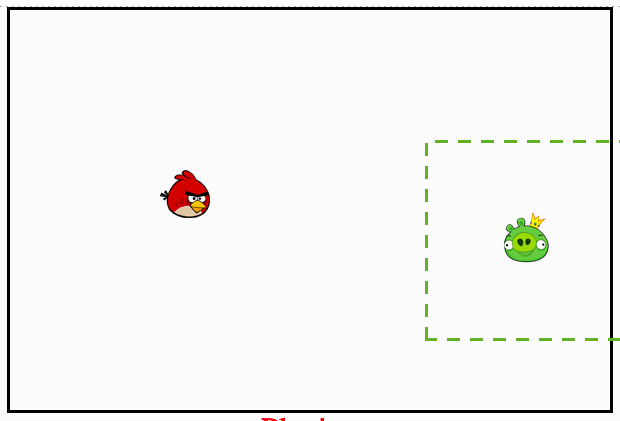
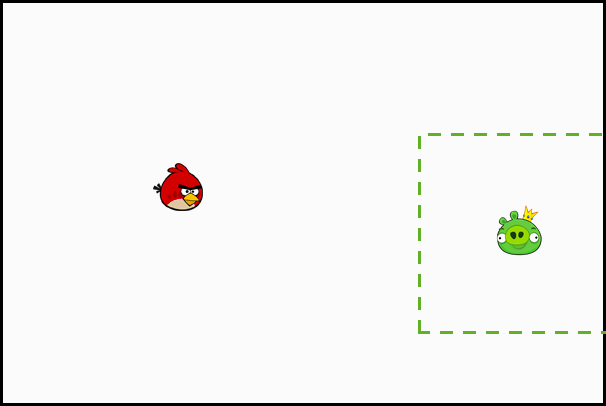
avances en actividades última sección

diff --git a/Ingreso2024/class5.md b/Ingreso2024/class5.md
@@ -6,7 +6,7 @@ pequeño videojuego.
 El videojuego a desarrollar esta inspirado en la narrativa del famoso [Angry Birds](https://es.wikipedia.org/wiki/Angry_Birds).
 
 
-## Nuestro videojuego versión 0.1
+## Nuestro videojuego - *Versión 0.1*
 
 En esta variante del juego el Rey Cerdo intenta atrapar (aplastando) al Angry Bird, para esto, cada un cierto tiempo determina una posición a la cual trasladarse (de manera aleatoria) y, si el Angry Bird se encuentra justo en un cierto rango de distancia de la posición elegida por el cerdo, entonces el angry bird será atrapado. El objetivo por el momento es tratar de escapar al cerdo. El jugador podrá mover al Angry Bird por toda el area de juego para tratar de escapar, utilizando las teclas de dirección (&larr; , &uarr; , &darr; , &rarr;).
 
@@ -20,7 +20,7 @@ de la pantalla). En concreto deberas programar las funciones ``moveForward()``, 
 <!-- ¿ meter la idea de requisitos ?-->
 
 > [!NOTE|label:NOTA]
-> Las posiciones de los personajes en el area de juego están representadas por valores almacenados en cuatro variables, dos para las coordenadas *x* e *y* del angry bird (``birdX`` y ``birdY``), y otras dos para las del cerdo (``pigX`` y ``pigY``). Cualquier cambio en el valor de esas variables se verá reflejado como un cambio de posición del personaje en la pantalla de juego.
+> Las posiciones de los personajes en el area de juego están representadas por valores almacenados en cuatro variables, dos para las coordenadas *x* e *y* del angry bird (``birdX`` y ``birdY``), y otras dos para las del cerdo (``pigX`` y ``pigY``). Cualquier cambio en el valor de esas variables se verá reflejado como un cambio de posición del personaje en la pantalla de juego. El área de juego tiene una dimensión de 600 puntos horizontal por 400 puntos vertical.
 
 ###  Refrescando un poco: ¿Cómo se escriben las funciones?
 
@@ -38,7 +38,7 @@ Ya has utilizado funciones desde el comienzo invocándolas y también has escrit
 
 >[!NOTE|label:NOTA] Los parámetros definidos entre los paréntesis pueden ser utilizados como variables visibles dentro del cuerpo de la función, que traeran los valores con los que se haya invocado a la función a la hora de usarla.
 
-## Iteración 2
+## Iteración 2 - *Detectando al Angry Bird*
 
 Actualmente el cerdo realiza movimientos aleatorios cada un segundo, decide un lugar (una posición **(x,y)** del área de juego) al azar al cual saltar y se desplaza hasta allí. En ningún momento el cerdo tiene en cuenta qué tan cerca ha saltado del angry bird, no existe la noción de visibilidad, detección o cercanía. Tan solo puede distingir si lo está tocando o no. Quisiéramos incorporarle al cerdo un grado de inteligencia mayor, es decir, que bajo alguna medida de distancia predefinida pueda saber si ha saltado cerca o no, y si lo está, entonces que se comporte como si lo hubiera visto y comience a saltar en la zona.
 
@@ -46,227 +46,54 @@ Actualmente el cerdo realiza movimientos aleatorios cada un segundo, decide un l
 
  *"Vamos por partes"* - JTR.
 
-> [!TIP|label:Análisis del problema]
-> Como resolver la detección: Si el área demarcada por el cuadrado verde en torno al cerdo fuese el área de visibilidad que el mismo tiene, entonces, de la siguiente imagen se desprende que el cerdo estaría viendo o detectando al angry bird. Podemos determinar el área a partir de conocer la posición del cerdo (sus variables de coordenadas *x* e *y*) y la distancia de detección, que podríamos mantener también en una variable. Luego podríamos computar si la posición del angry bird está dentro o fuera del area y así determinar si es visto o detectado, o no.
+> [!TIP|label:Análisis del problema - primera parte]
+> ¿Cómo resolver la detección?: Si la zona demarcada por el cuadrado verde en torno al cerdo fuese el área de visibilidad que el mismo tiene, entonces, de la siguiente imagen se desprende que el cerdo estaría viendo o detectando al angry bird. Aparecen aquí dos *subproblemas* para poder calcular esto, por un lado necesitamos obtener los valores que determinan el cuadrado (qué es de posición dinamica) y por el otro calcular si la posición del angry bird está dentro o fuera del mismo.
 
-![sentencia if .center](img/visibleArea.png ':size=40%')
+![img analisis 1](img/visibleArea.png ':size=40%') ![img analisis 1b](img/visibleArea2.png ':size=40%')
 
-Ya hemos resuelto con anterioridad como determinar si un punto pertenece al área de un cuadrado en el plano cartesiano. En aquella oportunidad ya contábamos con información sobre la posición y dimensiones del cuadrado, aquí deberemos determinar los valores de posición en función de la posición del cerdo y la distancia de visibilidad.
+Con algunas cuentas sencillas podemos determinar dinamicamente los valores del cuadrado, a partir de conocer la posición del cerdo (sus variables de coordenadas *x* e *y*) y la distancia de detección visual (indicada como <span style="color: red;">VD</span> en el siguiente grafico). Una vez obtenidos los valores que describen la locación del cuadrado en el plano cartesiano, ya sabemos de ejercicios anteriores como calcular si un punto (en este caso ![img angry bird](img/birdAvatar.png ':size=2%')) está o no dentro del mismo. 
 
-![sentencia if .center](img/visibleAreaValues.png ':size=40%')
+![img analisis 2 .center](img/visibleAreaValues.png ':size=40%')
+
+> [!NOTE|label:NOTA] En realidad conocemos el punto medio del cuadrado (en este caso ![img pig](img/pigAvatar.png ':size=2%')) y, si observamos la forma en la que está implementada la decición de la captura, podemos ver que no es necesario el calculo explicito del cuadrado...
+
+
+> [!TIP|label:Análisis del problema - segunda parte]
+> ¿Cómo resolvemos las zonas de salto variable?: El cálculo aleatorio para la nueva posición del cerdo se lleva a cabo al comienzo de la función ``movePig()`` y los valores resultantes estan acotados por las variables límites. Actualizando dinamicamente estas variables lograremos ir acotando las zonas de salto en cada iteración. Aparecen aquí dos *subproblemas*, ¿dónde las actualizo? y ¿cómo calcular su valor?
+
+```
+function movePig() {
+    
+    // Calcular la nueva posición a la que moverá el cerdo
+    pigX = randomNumber(limiteInferiorX,limiteSuperiorX);
+    pigY = randomNumber(limiteInferiorY,limiteSuperiorY);
+
+    ...
+
+}
+    
+```
+
+
 
   <!-- angry bird (``birdX`` y ``birdY``)
   cerdo (``pigX`` y ``pigY``).
 -->
 ## Iteración 3
 
- TBC
+ TBD
 
-***Actividad***: Vamos a ...
+***Actividad***: Agreguemos objetivos y ganemos vidas...
 
-## Version 0.9
 
-TBC
 
-***Actividad***: Vamos a ...
 
-<!--
 
-## Algunos conceptos importantes para escribir un programa que resuelva este problema:
 
+full :https://editor.p5js.org/compuUNRCIngreso/full/NbtC4_QIE
+<iframe src="https://editor.p5js.org/compuUNRCIngreso/full/NbtC4_QIE" width="800" height="600"></iframe>
 
-Si recordamos  al ejemplo de la primera clase [multiplicar dos números](#nuestro-programa-que-multiplica-dos-números-en-javaScript), hemos utilizado variables para recordar valores,
+edit :https://editor.p5js.org/compuUNRCIngreso/sketches/NbtC4_QIE
+<iframe src="https://editor.p5js.org/compuUNRCIngreso/sketches/NbtC4_QIE" width="800" height="600"> ...</iframe>
 
-## ¿Qué son las variables? 
- 
-* Una variabla es la combinación de las siguientes cosas: 
 
-* Un nombre  (o identificador) a elección 
-
-* Una dirección en la memoria de la computadora 
-* Un valor almacenado en esa dirección de la memoria que puede cambiar durante la ejecución del programa
-
-* Un tipo, que especifica cuanto espacio ocupa ese valor en la memoria, y cómo interpretar este valor 
-
-> [!WARNING|label: IMPORTANTE]
->  Para usar una variable, necesitas en primer lugar declarar la variable 
-
-* * * * * * * * * * * * * * * * * * * * * * * * * * * * * * * * * * * * * * * * * * * * * * * * * 
-
-
-## ¿Cómo cambiamos el valor almacenado en una variable?
-
-***Asignación***: Una asignación cambia el valor de una variable. Una asignación es una sentencia de la forma:
-   ```
-    nombre_variable = expresion;
-   ```
-
-Donde  ``nombre_variable`` es el nombre elegido para la variable. La asignación cambia el valor de la variable  ``nombre_variable`` por el valor de  ``expresion``
-
-<span style="color:red">  <font size = 6 >  acá abajo la idea es utilizar este espacio para ejemplos on the fly
-cambiar el valor de las variables, imprimir , etc. Hay una función que retorna un valor
-</font></span>
-
-Ejemplo: 
-
-<iframe src="https://editor.p5js.org/compuUNRCIngreso/full/l56tAFfey" width="800" height="600"></iframe>
-
-> [!TIP|label: NOTA]
-> Link para abrir este ejermplo en otra ventana del navegador [variables](https://editor.p5js.org/compuUNRCIngreso/full/l56tAFfey)
-
-* * * * * * * * * * * * * * * * * * * * * * * * * * * * * * * * * * * * * * * * * * * * * * * * * 
-
-## Sentencia Condicional ``if``
-
-``` 
-    ...
-    if (CONDICION) {
-        [BLOQUE DE SENTENCIAS] 
-    }
-
-    [BLOQUE DE SENTENCIAS SIGUIENTES]
-    ...
-```
-
-![sentencia if .center](img/if.png ':size=40%')
-
-
-
-* * * * * * * * * * * * * * * * * * * * * * * * * * * * * * * * * * * * * * * * * * * * * * * * * 
-
- 
-## Sentencia Condicional ``if-else`` 
-
-
-```
-    ...
-    if (CONDICION) {
-        [BLOQUE DE SENTENCIAS 1] 
-    }else{
-        [BLOQUE DE SENTENCIAS 2] 
-    }
-
-    [BLOQUE DE SENTENCIAS SIGUIENTES]
-    ...
-
-```
-![sentencia if .center](img/if-else.png ':size=60%')
-
-
-
-* * * * * * * * * * * * * * * * * * * * * * * * * * * * * * * * * * * * * * * * * * * * * * * * * 
-
-##   Operadores de comparación
- 
-Los operadores de comparación nos permiten comparar el valor de dos expresiones:
-
-```
-    EXPR > EXPR
-    EXPR >= EXPR
-    EXPR < EXPR
-    EXPR <= EXPR
-    EXPR == EXPR
-    EXPR != EXPR
-```
-
-Estas expresiones booleanas, o condiciones, pueden ser usadas en el contexto de las sentencias condicionales.
-
-* * * * * * * * * * * * * * * * * * * * * * * * * * * * * * * * * * * * * * * * * * * * * * * * *  
-
-##  Ahora si volvamos a tirar el dado...
-
-> [!TIP|label:AYUDA]
-> Algunas funciones de utilidad [fill()](https://p5js.org/es/reference/#/p5/fill) y [circle()](https://p5js.org/es/reference/#/p5/circle) para resolver el problema.
-
- <span style="color:red"> <font size = 6 >acá se usan  funciones con parametros </font> </span>
- 
-
-<iframe src="https://editor.p5js.org/compuUNRCIngreso/full/Jssw9sFDA" width="800" height="600"></iframe>
-
-> [!TIP|label:NOTA]
-> Link para abrir este ejercicio en otra ventana del navegador [tirar los dados](https://editor.p5js.org/compuUNRCIngreso/full/Jssw9sFDA) 
-
-* * * * * * * * * * * * * * * * * * * * * * * * * * * * * * * * * * * * * * * * * * * * * * * * * 
-
-
-## Actividad 2: Dónde esta el punto (1)?
- 
-
-El Lienzo está dividido en dos secciones por una línea recta horizontal.  Se  proveen variables ``mouseX`` y  ``mouseY`` que almacenan las coordenadas ``(x, y)`` del punto sobre el Lienzo en donde se hace ‘click’. Escribir un programa que decida si se hizo un click por encima o por debajo de la línea. 
-
-<iframe src="https://editor.p5js.org/compuUNRCIngreso/full/3eExV-33b" width="800" height="600"></iframe>
-
-> [!TIP|label:NOTA]
-> Link para abrir este ejercicio en otra ventana del navegador [Donde esta el punto (1)?](https://editor.p5js.org/compuUNRCIngreso/full/3eExV-33b)
-
-* * * * * * * * * * * * * * * * * * * * * * * * * * * * * * * * * * * * * * * * * * * * * * * * * 
-
-
-## Actividad 3: Dónde esta el punto (2)? 
-
-En este caso, encontrarás el Lienzo divido en cuatro cuadrantes. Nuevamente se proveen las variables que almacenan las coordenadas ``(x, y)`` del punto sobre el Lienzo donde se hizo 'click' (``mouseX`` y  ``mouseY``). 
-
-Escribir un programa que decida  en qué cuadrante se ha hecho click (arriba-derecha, arriba-izquierda, abajo-derecha o abajo- izquierda). 
-
-
-<iframe src="https://editor.p5js.org/compuUNRCIngreso/full/OnSK_3K-7" width="800" height="600"></iframe>
-
-
-> [!TIP|label:NOTA]
-> Link para abrir este ejercicio en otra ventana del navegador [Donde esta el punto (2)?](https://editor.p5js.org/compuUNRCIngreso/full/OnSK_3K-7)
- 
-* * * * * * * * * * * * * * * * * * * * * * * * * * * * * * * * * * * * * * * * * * * * * * * * * 
-
-##  Actividad 4: Le dí a la figura?
- 
-Cuando ejecutas este programa (botón ``play`` en la esquina superior izquierda), se dibuja un círculo de tamaño aleatorio en el lienzo, las partes (centro y diametro) de este círculo   quedarán almacenadas en las variables: ``xCentro``, ``yCentro`` y ``diametro``. Además, contamos con las variables ``mouseX`` y ``mouseY``,  utilizadas anteriormente,  que almacenan las coordenadas de un 'click'. Esta actividad consiste en escribir un programa que  decida si se hizo 'click' dentro del círculo o fuera de él.
-
-
-<iframe src="https://editor.p5js.org/compuUNRCIngreso/full/N4XRJQjAK" width="800" height="600"></iframe>
-
-> [!TIP|label:NOTA]
-> Link para abrir este ejercicio en otra ventana del navegador [Le dí a la figura?](https://editor.p5js.org/compuUNRCIngreso/full/N4XRJQjAK) 
-
-* * * * * * * * * * * * * * * * * * * * * * * * * * * * * * * * * * * * * * * * * * * * * * * * * 
-
-
-##  Actividad 5: Le dí a la figura (2)?
- 
-Cuando ejecutas este programa (botón ``play`` en la esquina superior izquierda), se dibuja un cuadrado de tamaño aleatorio en el lienzo, el tamaño de los lados de este cuadrado   quedará almacenada en la variable: ``lado``, y las coordenadas `(x,y)` de la esquina superior izquierda del cuadrado en las variables `xCoord` e `yCoord` respectivamente. Además, contamos con las variables ``mouseX`` y ``mouseY``,  que almacenan las coordenadas de un 'click'. Esta actividad consiste en escribir un programa que  decida si se hizo 'click' dentro del cuadrado o fuera de él.
-
-
-<iframe src="https://editor.p5js.org/compuUNRCIngreso/full/obPixCPm6"  width="800" height="600">></iframe>
-
-
-> [!TIP|label:NOTA]
-> Link para abrir este ejercicio en otra ventana del navegador [Le dí a la figura?](https://editor.p5js.org/compuUNRCIngreso/sketches/obPixCPm6)
-
-
-##  Actividad 6: Que no se escape Angry Bird!
-
-
-
-Cuando ejecutas este programa (botón ``play`` en la esquina superior izquierda), tendrás a **Angry Bird** en su posición inicial, has click en el lienzo para comenzar.
-
-Cada vez que presionas la tecla `->` **Angry Bird** se mueve unos pasos hacia adelante!. Analicemos el código provisto con detalle. Podrás notar que **Angry Bird** desaparece cuando sobrepasa los límites del lienzo. La tarea consiste en modificar el código provisto para que **Angry Bird** vuelva a comenzar desde su posición inicial cuando este sobrepasa los límites del lienzo. 
-
-
-Algunas variables necesarias para resolver este problema:
-
-* `windowWidth`: almacena el  ancho del lienzo
-* `windowHeight`: almacena la altura del lienzo
-
-* `birdX`: almacena la  coordenada x de la  posición de angry bird en el lienzo
-* `birdY`: almacena la  coordenada y de la  posición de angry bird en el lienzo
-
-
-<iframe src="https://editor.p5js.org/compuUNRCIngreso/full/K22t_WWgl" . width="800" height="600">></iframe>
-
-
-> [!TIP|label:NOTA]
-> Link para abrir este ejercicio en otra ventana del navegador [Angry Bird en movimiento](https://editor.p5js.org/compuUNRCIngreso/sketches/K22t_WWgl)
- 
-> [!TIP|label:NOTA]
->  Si te animás podes definir la la función **moveBackward()**,  que mueve a **AngryBird** 20 pasos hacia atrás cuando se presiona la tecla **<-**  
-
- -->
